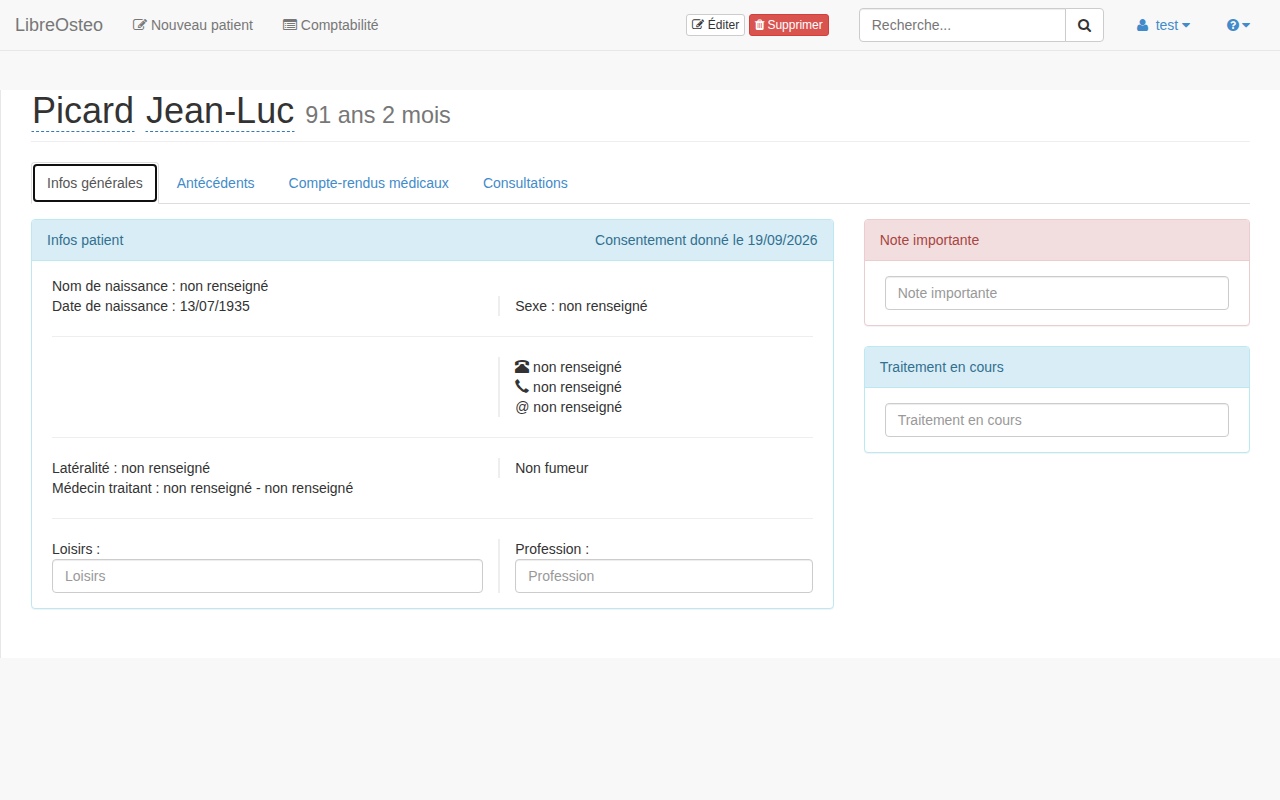
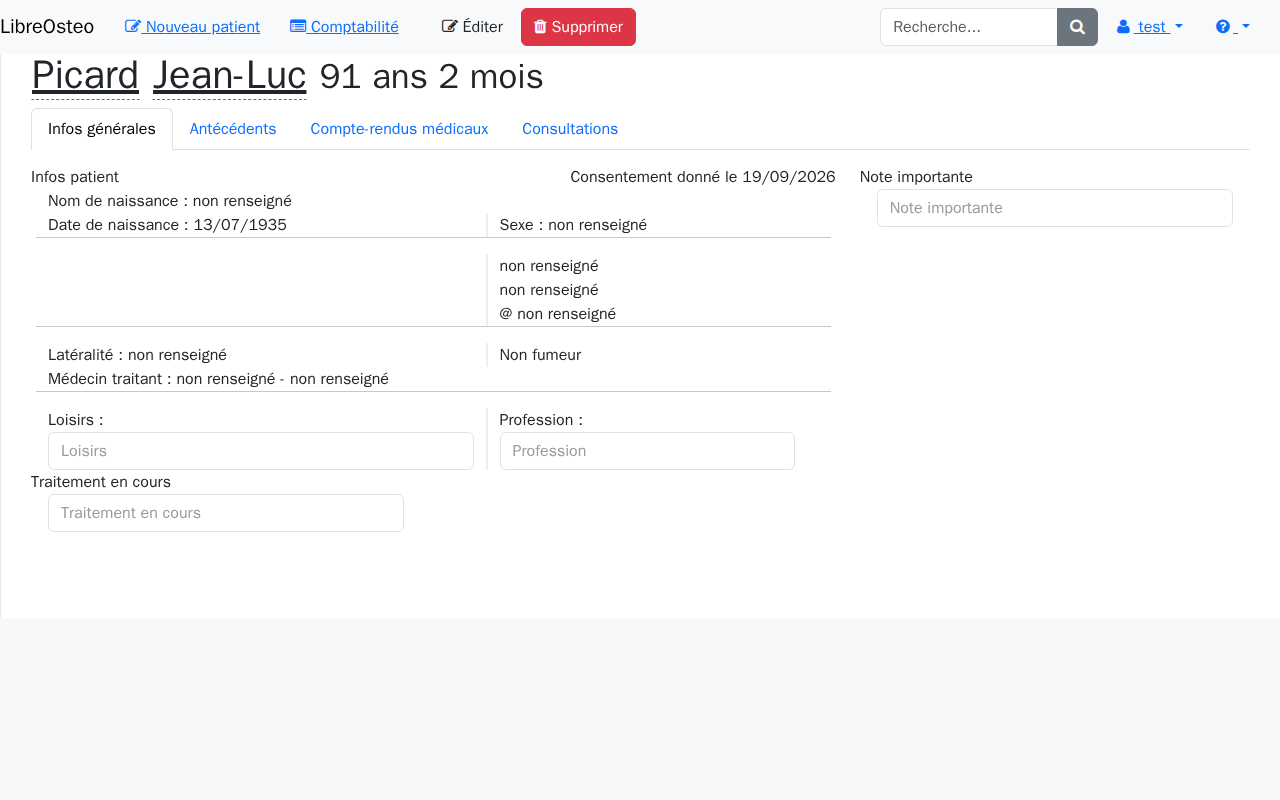
refactor: basculer search.html sur bootstrap 5 (D6g T5)
Seule occurrence de l'ecran : page-header, sans equivalent en Bootstrap 5 (annexe A),
aucune regle CSS ne le stylait deja depuis le passage de base.html a Bootstrap 5 (T4) et
aucun test ne l'adresse. Classe retiree du h3 de partials/search-result.html, structure et
data-testid intacts. Occurrences outils/rupture_bs5.py : 1 -> 0 sur les deux gabarits.

Captures prises sur l'etat courant de main (8bbeb01, correctif du fond de page et de la
table navbar-default). L'instrument tests/functional/capture_socle_visuel.py enchaine
dossier-patient, recherche, comptabilite et facture dans une seule fonction de test :
rejouer la capture de recherche a donc aussi rafraichi dossier-patient-*.png et
comptabilite-*.png. Diff reel et attendu, pas un flottement de rendu : les deux gabarits
chargent deja libreosteo.css (derefence de sb-admin-2.css par T4) et recoivent donc le
fond gris du bloc 0 independamment de leur propre conversion des classes Bootstrap 3, pas
encore faite (T10, T15). facture-*.png n'a pas bouge.

Fiche R-VIS-04 ecrite : attendus aux deux largeurs, nomme le menu utilisateur deja
recette en R-VIS-03 sans le redecrire.

diff --git a/libreosteoweb/templates/partials/search-result.html b/libreosteoweb/templates/partials/search-result.html
@@ -1,7 +1,7 @@
 {% load i18n %}
 {% load highlight %}
 {% if query %}
-            <h3 class="page-header" data-testid="titre-recherche">{% trans 'Search for' %} "{{ query }}"</h3>
+            <h3 data-testid="titre-recherche">{% trans 'Search for' %} "{{ query }}"</h3>
 
             {% for result in page.object_list %}
                 <div class="search-entry">

diff --git a/docs/recette.md b/docs/recette.md
@@ -3878,11 +3878,29 @@ et `recherche-375.png`.
 **Étapes**
 
 1. Ouvrir `/search?q=Picard`, connecté, fenêtre à **1 280 px de large**.
-   Attendu : <écrit par T5>
+   Attendu : le titre **« Recherche de "Picard" »** est entièrement visible sous la barre de
+   navigation, sans en être recouvert. En dessous, le résultat **Picard Jean-Luc** apparaît
+   comme un lien souligné, suivi de son extrait en petit texte gris. La zone de contenu est
+   blanche et se détache du fond gris de la page (attendu porté par R-VIS-03) ; aucune barre
+   de défilement horizontale. Dans la barre, à droite, les trois entrées **test**, **?** et
+   le champ **Recherche…** restent atteignables au clic ; ouvrir **test** fait apparaître les
+   six entrées du menu utilisateur décrites en R-VIS-03 (*Profil utilisateur*, *Paramètres*,
+   *Import/export*, *Réindexer*, un trait, *Déconnexion*), chacune cliquable sur toute sa
+   largeur.
 2. Ramener la fenêtre à **375 px de large**.
-   Attendu : <écrit par T5>
+   Attendu : le titre **« Recherche de "Picard" »** et le résultat **Picard Jean-Luc**
+   restent entièrement visibles, sans être coupés ni recouverts par la barre ; aucune barre
+   de défilement horizontale. La barre de navigation est repliée derrière le bouton
+   hamburger, comme décrit en R-VIS-03 ; l'ouvrir puis atteindre **test** donne accès aux
+   mêmes six entrées, empilées dans le flux de la page, **Déconnexion** s'atteignant en
+   faisant défiler.
 
-**Ne couvre pas** : <écrit par T5>
+**Ne couvre pas** : la justesse des résultats renvoyés, la pagination au-delà d'une page, et
+le message « Aucun résultat trouvé » — couverts par
+`tests/functional/test_recherche.py` (cinq tests, tous verts sur l'état de cette tâche). Ni
+le détail du bandeau et du menu utilisateur, qui appartiennent au socle commun et se
+recettent en R-VIS-03 — cette fiche n'en vérifie que la présence et l'atteignabilité sur cet
+écran précis, pas le contenu de leurs menus.
 
 ### R-VIS-05 — Socle visuel : diagnostic du texte riche
 
